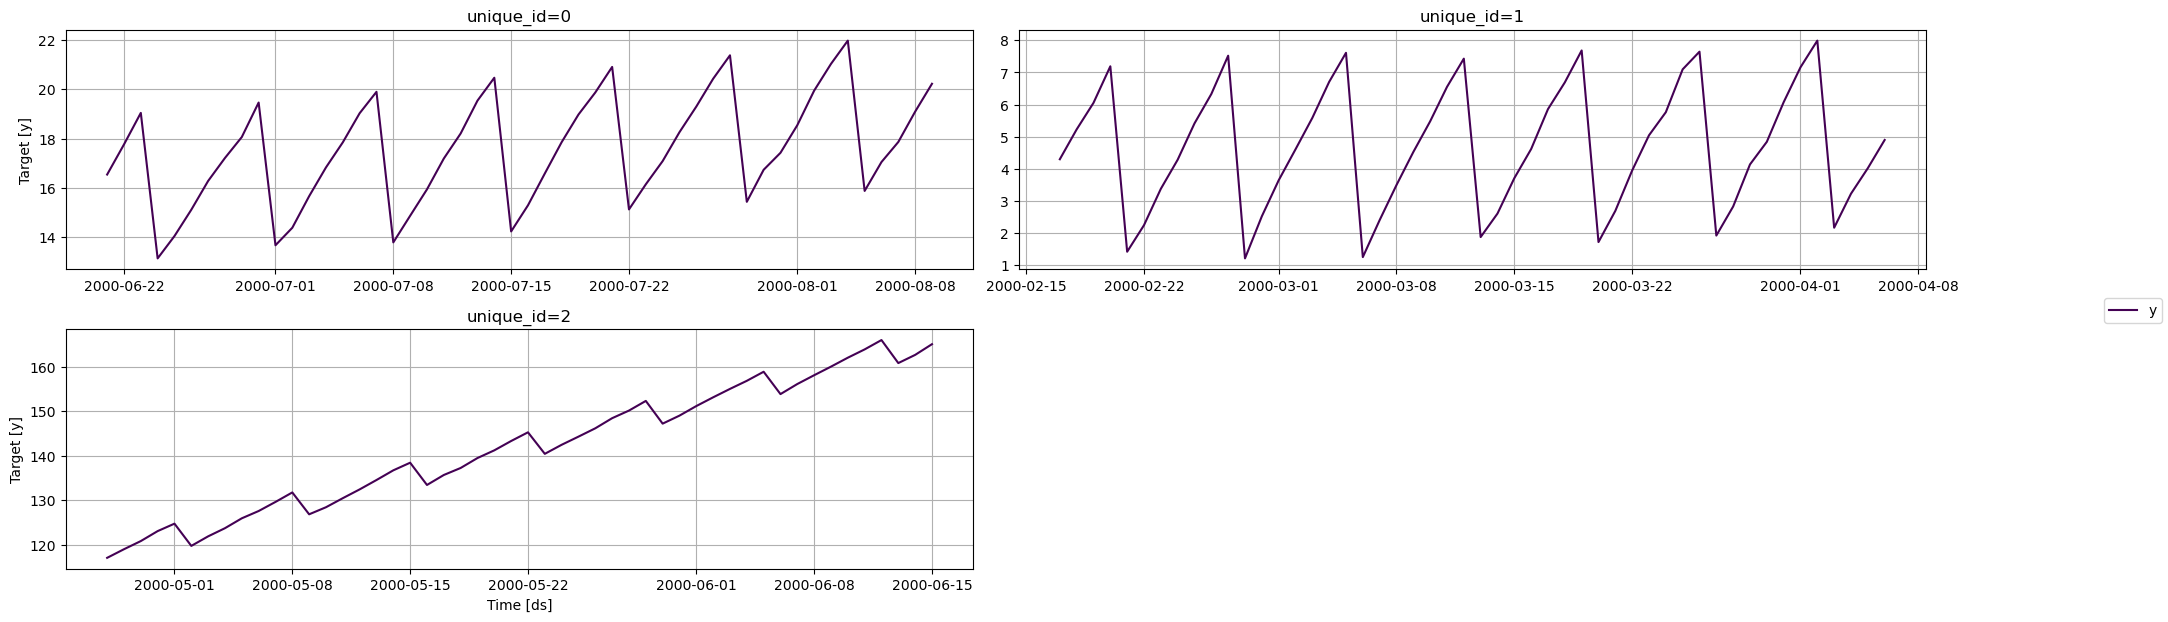
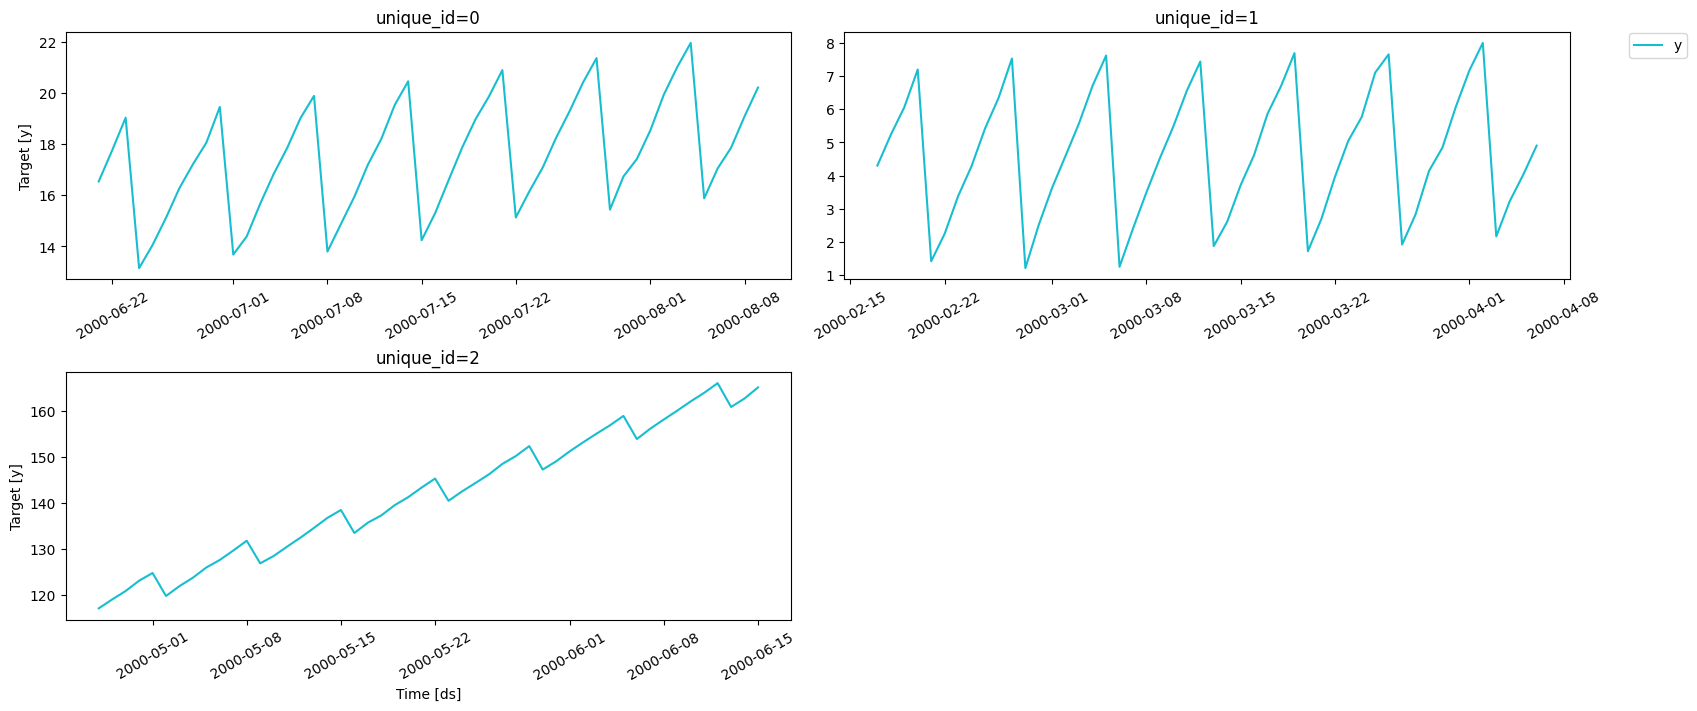
fix: ensure xticks are within plot limits

diff --git a/utilsforecast/plotting.py b/utilsforecast/plotting.py
@@ -389,14 +389,7 @@ def plot_series(
                 ax[row, col].set_ylabel(ylabel)
             if row == n_rows - 1:
                 ax[row, col].set_xlabel(xlabel)
-            xticklabels = ax[row, col].get_xticklabels()
-            xticks = ax[row, col].get_xticks()
-            ax[row, col].set_xticks(
-                rotation=30,
-                ticks=xticks,
-                labels=xticklabels,
-                ha="right",
-            )
+            ax[row, col].tick_params(axis="x", labelrotation=30)
         else:
             fig.update_annotations(selector={"text": str(i)}, text=title)
 
